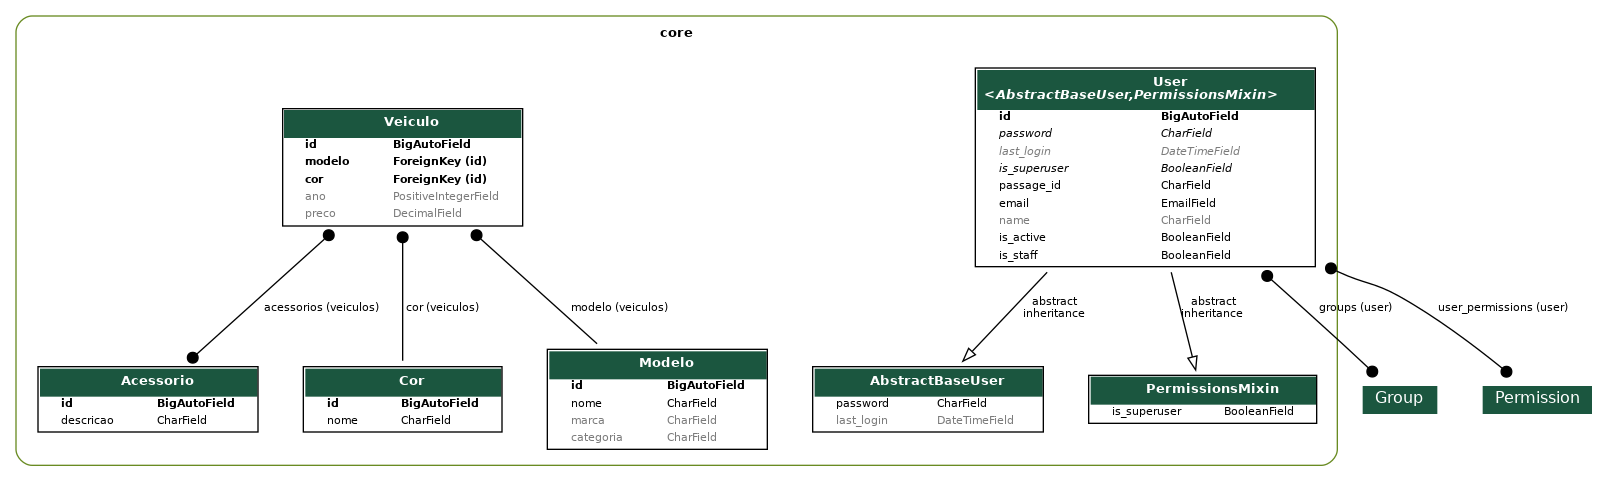
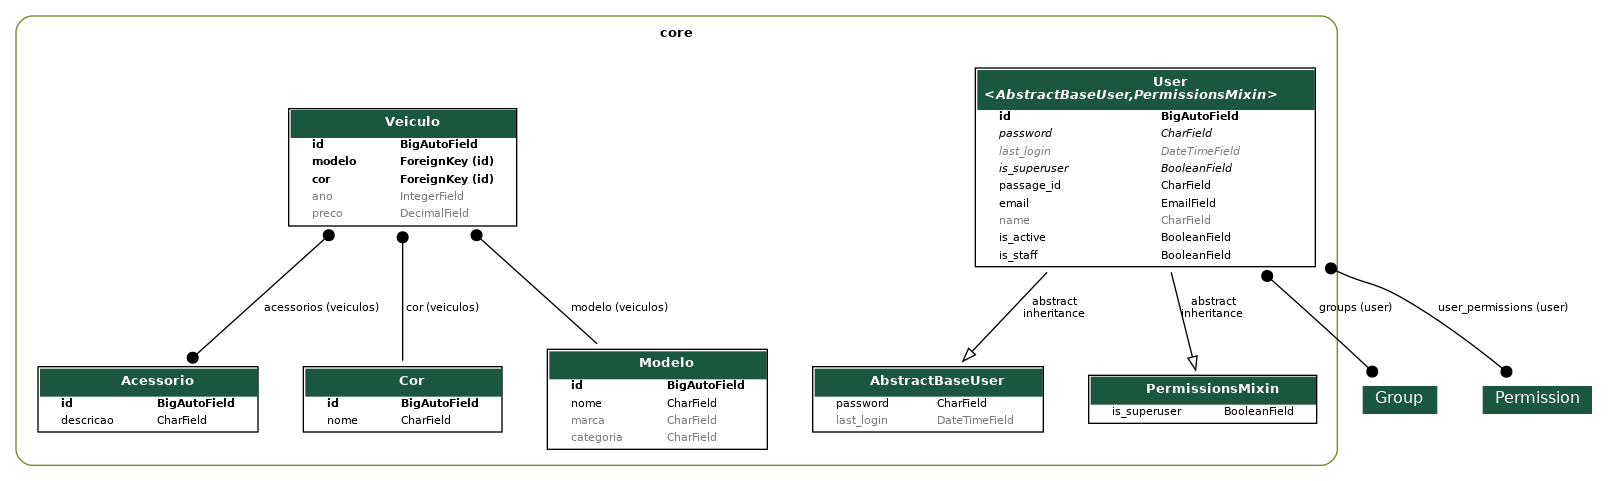
Fix: Alteração do campo 'ano' no modelo Veiculo para permitir valores nulos e  colocar como padrão 0

diff --git a/core/migrations/0009_alter_veiculo_ano.py b/core/migrations/0009_alter_veiculo_ano.py
@@ -1,0 +1,18 @@
+# Generated by Django 5.1.7 on 2025-04-29 18:56
+
+from django.db import migrations, models
+
+
+class Migration(migrations.Migration):
+
+    dependencies = [
+        ('core', '0008_veiculo'),
+    ]
+
+    operations = [
+        migrations.AlterField(
+            model_name='veiculo',
+            name='ano',
+            field=models.IntegerField(blank=True, default=0, null=True),
+        ),
+    ]
